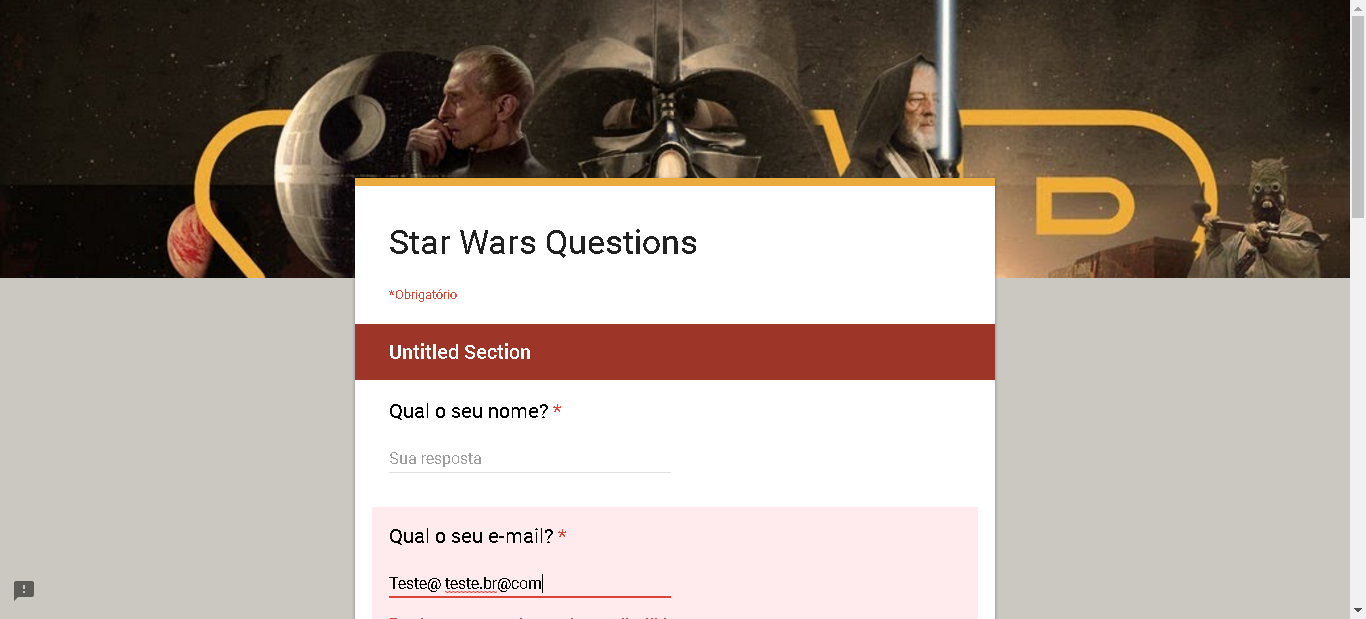
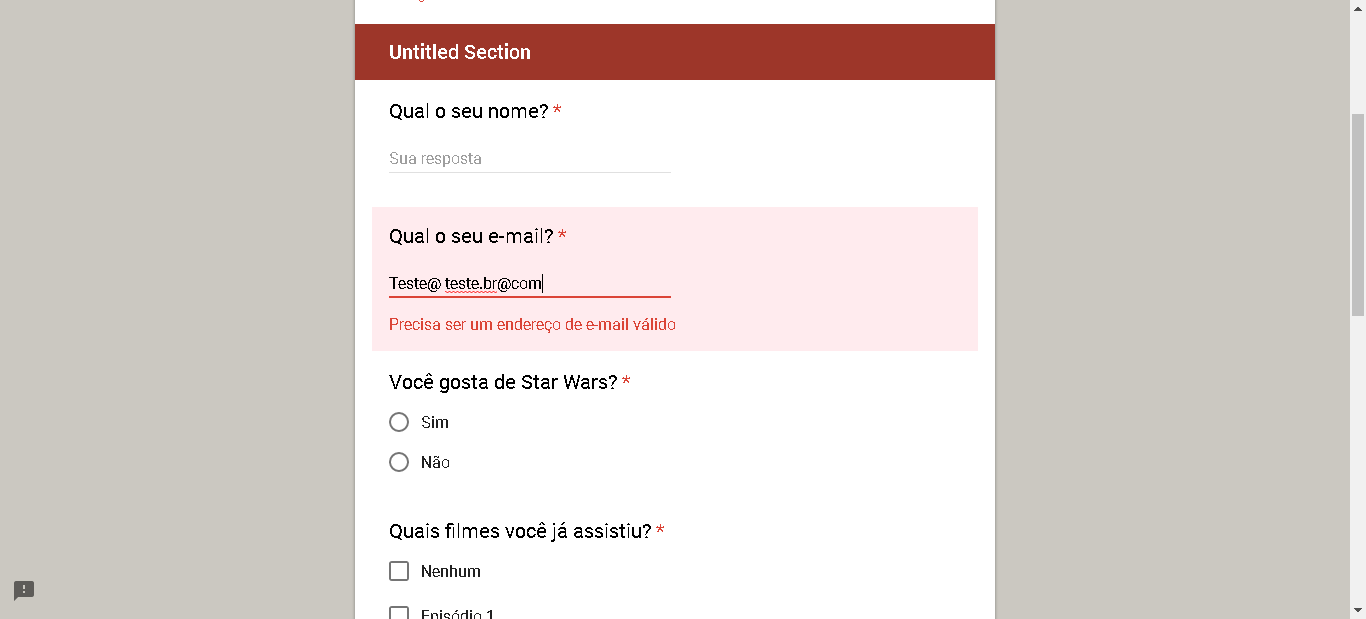
atualizacao final

diff --git a/features/step_definitions/star_wars_steps.rb b/features/step_definitions/star_wars_steps.rb
@@ -44,5 +44,8 @@ Quando(/^eu preecher o email invalido "([^"]*)"$/) do |email_invalido|
 end	
 
 Então(/^verifico que o email não é valido$/) do
-  assert_text 'Precisa ser um endereço de e-mail válido'
+  assert_text('Precisa ser um endereço de e-mail válido') 
+  page.execute_script "window.scroll(0, 300)"
+  #page.execute_script "document.getElementsByName('entry.443565211')[0].focus()" Focus em teste
+  sleep 1
 end
